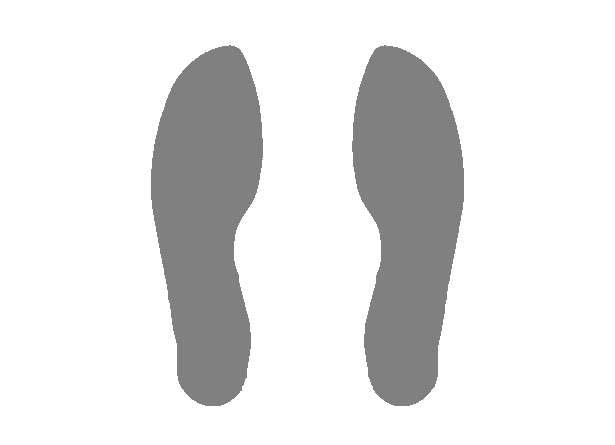
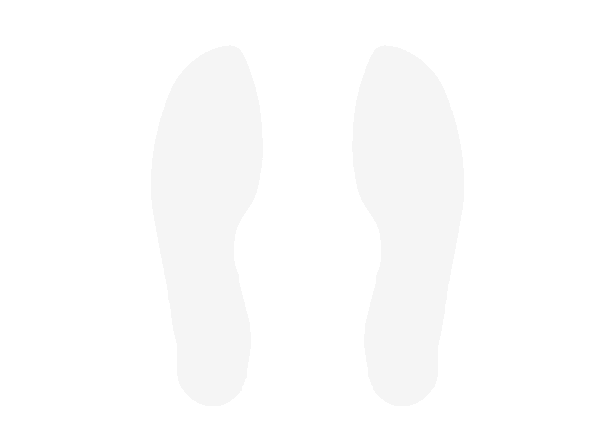
cambiar color y quitar test

Changed region(s): [[0.5561, 0.0876, 0.7724, 0.9348], [0.2472, 0.0876, 0.4325, 0.9348]]

diff --git a/insoles/Graphs/PressureMap.cs b/insoles/Graphs/PressureMap.cs
@@ -388,7 +388,7 @@ namespace insoles.Graphs
 #if CENTER_SENSORS
                     Dictionary<SensorHeelReduced, int> pressuresLeftReduced = ReduceSensorsHeel(pressuresLeft, reduceFunc);
                     Dictionary<SensorHeelReduced, int> pressuresRightReduced = ReduceSensorsHeel(pressuresRight, reduceFunc);
-                     //Testear sensores individualmente
+                    /* //Testear sensores individualmente
                     foreach (SensorHeelReduced sensor in pressuresLeftReduced.Keys)
                     {
                         pressuresLeftReduced[sensor] = 0;
@@ -397,6 +397,7 @@ namespace insoles.Graphs
                     SensorHeelReduced sensorToTest = SensorHeelReduced.MET1;
                     pressuresLeftReduced[sensorToTest] = 1000;
                     pressuresRightReduced[sensorToTest] = 1000;
+                    */
                     
                     pressureMaps[metric] = CalculateFromPoint(pressuresLeftReduced, pressuresRightReduced, inverse_reduced_distances);
 #else

diff --git a/insoles/Graphs/ModelButterfly.cs b/insoles/Graphs/ModelButterfly.cs
@@ -43,7 +43,7 @@ namespace insoles.Graphs
             plot.Plot.YAxis2.IsVisible = false;
             plot.Plot.XAxis.Label("Xcp(combo)(mm)");
             plot.Plot.YAxis.Label("Ycp(combo)(mm)");
-            //saveBitmap(foot);
+            saveBitmap(foot);
             drawFoot();
         }
         private void drawFoot()
